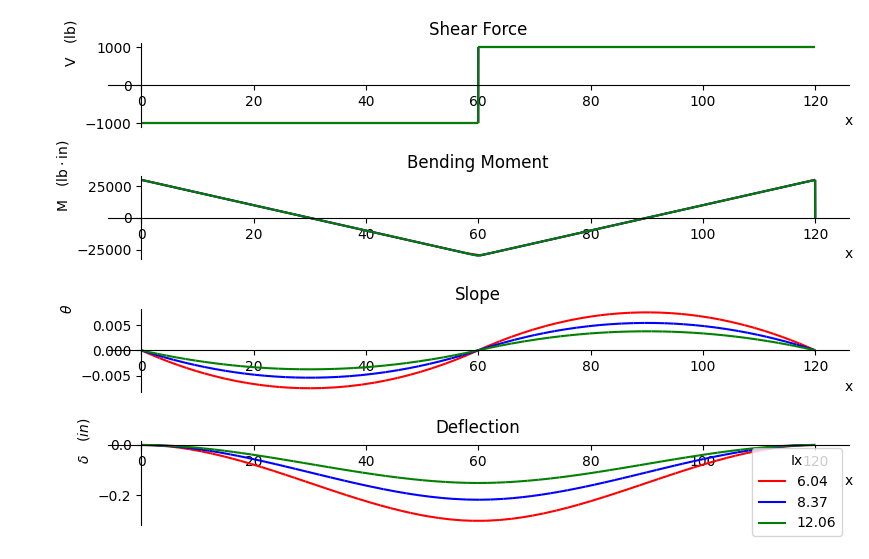
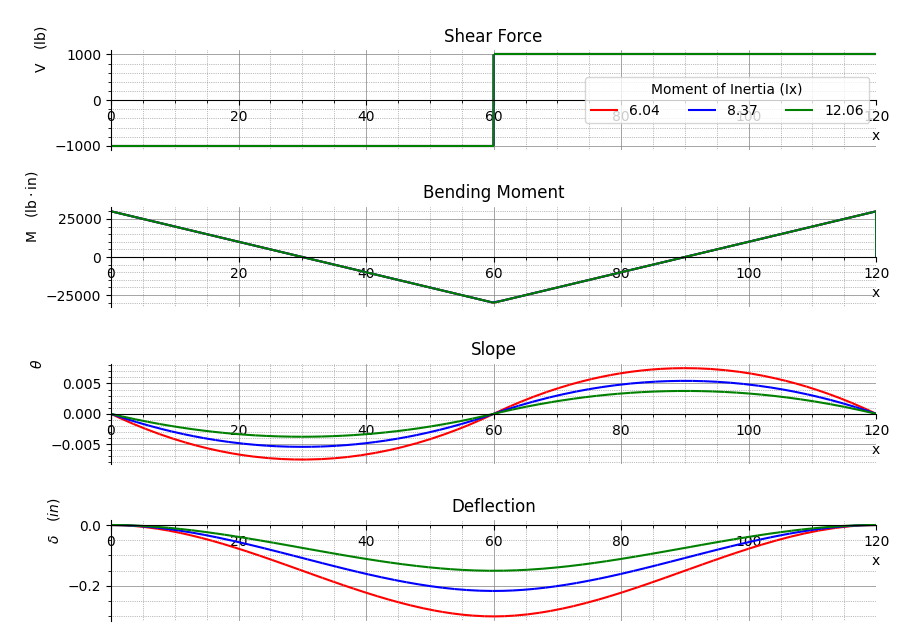
adding pass/fail deflection table/calculation

diff --git a/main.py b/main.py
@@ -103,6 +103,14 @@ for i, I in enumerate(Ix):
     obj = beam_me_up(L, E, I, F, colors[i])
     p.append(obj)
 
+    # https://www.spanco.com/blog/understanding-overhead-crane-deflection-and-criteria/
+    delta = (F * L**3) / (192 * E * I)
+    allowable = L/450
+    passed = False
+    if delta < allowable:
+        passed = True
+    print(f'delta_max_Ix-{I} = {delta:.2f} ; allowable = {allowable:.2f}; passed: {passed}')
+
 # matplotlib overlplotting
 fig, (ax1, ax2, ax3, ax4) = plt.subplots(nrows=4)
 
@@ -113,10 +121,18 @@ for i, P in enumerate(p):
     move_sympyplot_to_axes(P[3], ax4)
 
 # legend
-handles = ax4.get_legend_handles_labels()[0] #return first value of function with [0]
+handles = ax1.get_legend_handles_labels()[0] #return first value of function with [0]
 labels = [str(Ix) for Ix in Ix] # convert list of floats to list of strings
-plt.legend(handles, labels, loc='upper right', title="Ix")
+ax1.legend(handles, labels, loc='right', title='Moment of Inertia (Ix)', ncol=3)
+
+# grid/limits
+plt.tight_layout()
+for i, ax in enumerate(fig.axes):
+    ax.set_axisbelow(True)
+    ax.minorticks_on()
+    ax.grid(which='major', linestyle='-', linewidth='0.5', color='gray')
+    ax.grid(which='minor', linestyle=':', linewidth='0.5', color='gray')
+    ax.set_xlim([0, L])
 
 # voila
-plt.tight_layout()
 plt.show()

diff --git a/README.md b/README.md
@@ -11,7 +11,7 @@ I used [sympy's beam module](https://docs.sympy.org/latest/modules/physics/conti
   * Thickness: `0.19 in`
   * Shape Type: `American Standard`
   * Weight: `2.66 lb/ft`
-  * Ix = `6.05 in^4`
+  * Ix = `6.04 in^4`
 * Material
   * `6061-T6`
   * Modulus of Elasticty (E): `9.9 ksi`
@@ -47,4 +47,13 @@ Max Deflection:
 ⎝2    192   ⎠
 ```
 
+| Ix    | $`\delta_{max}`$ | $`\delta_{allowable}`$ | Pass |
+|-------|------------------|------------------------|------|
+|  6.04 | 0.30             | 0.27                   | No   |
+|  8.37 | 0.22             | 0.27                   | Yes  |
+| 12.06 | 0.15             | 0.27                   | Yes  |
+
+$`\delta_allowable = L/450`$ per https://www.spanco.com/blog/understanding-overhead-crane-deflection-and-criteria/ for aluminum gantry cranes.
+
 Overall, it was a good introductory project to learn some Python, PyCharm, and details of the sympy and matplotlib modules.
+
